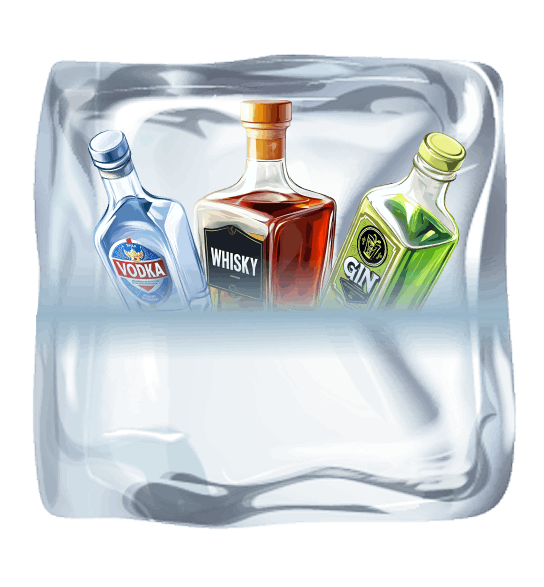
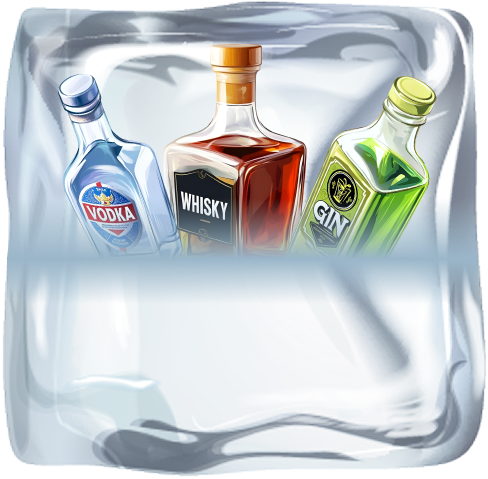
Assets update.

diff --git a/src/views/IntroView.ts b/src/views/IntroView.ts
@@ -21,13 +21,13 @@ class IntroLandscape extends Container {
     this.card2 = new IntroCard(2);
     this.card3 = new IntroCard(3);
 
-    this.card1.position.set(0, 0);
-    this.card2.position.set(this.card1.width * 1.1, 0);
-    this.card3.position.set(this.card2.width * 2.2, 0);
+    this.card1.position.set(0, 54);
+    this.card2.position.set(this.card1.width * 1.1 + 56, 54);
+    this.card3.position.set(this.card2.width * 2.2 + 112, 54);
 
     this.addChild(this.card1, this.card2, this.card3);
 
-    this.clickToContinue = makeText(clickToContinueTextConfig(this.width / 2 - 265, this.height - 180));
+    this.clickToContinue = makeText(clickToContinueTextConfig(this.card2.x, this.height - 24));
     this.addChild(this.clickToContinue);
   }
 
@@ -177,7 +177,7 @@ export class IntroViewWrapper extends PixiGrid {
     this.overlay.alpha = 0;
     this.overlay.eventMode = "static";
     this.overlay.on("pointerdown", () => {
-      this.isPortrait ? this.portraitView.processClick() : this.landscapeView.processClick();
+      // this.isPortrait ? this.portraitView.processClick() : this.landscapeView.processClick();
     });
 
     this.setChild("overlay", this.overlay);

diff --git a/src/configs/textConfig.ts b/src/configs/textConfig.ts
@@ -3,7 +3,7 @@ import { lp } from "../utils/Utils";
 export const clickToContinueTextConfig = (x: number, y: number): TextConfig => ({
   text: "Click to continue",
   x,
-  y: 390,
+  y: 498,
   anchor: { x: 0.5, y: 0.5 },
   style: { fontSize: 72, fill: "#ffffff", fontFamily: "JomhuriaRegular", letterSpacing: 1 },
 });
